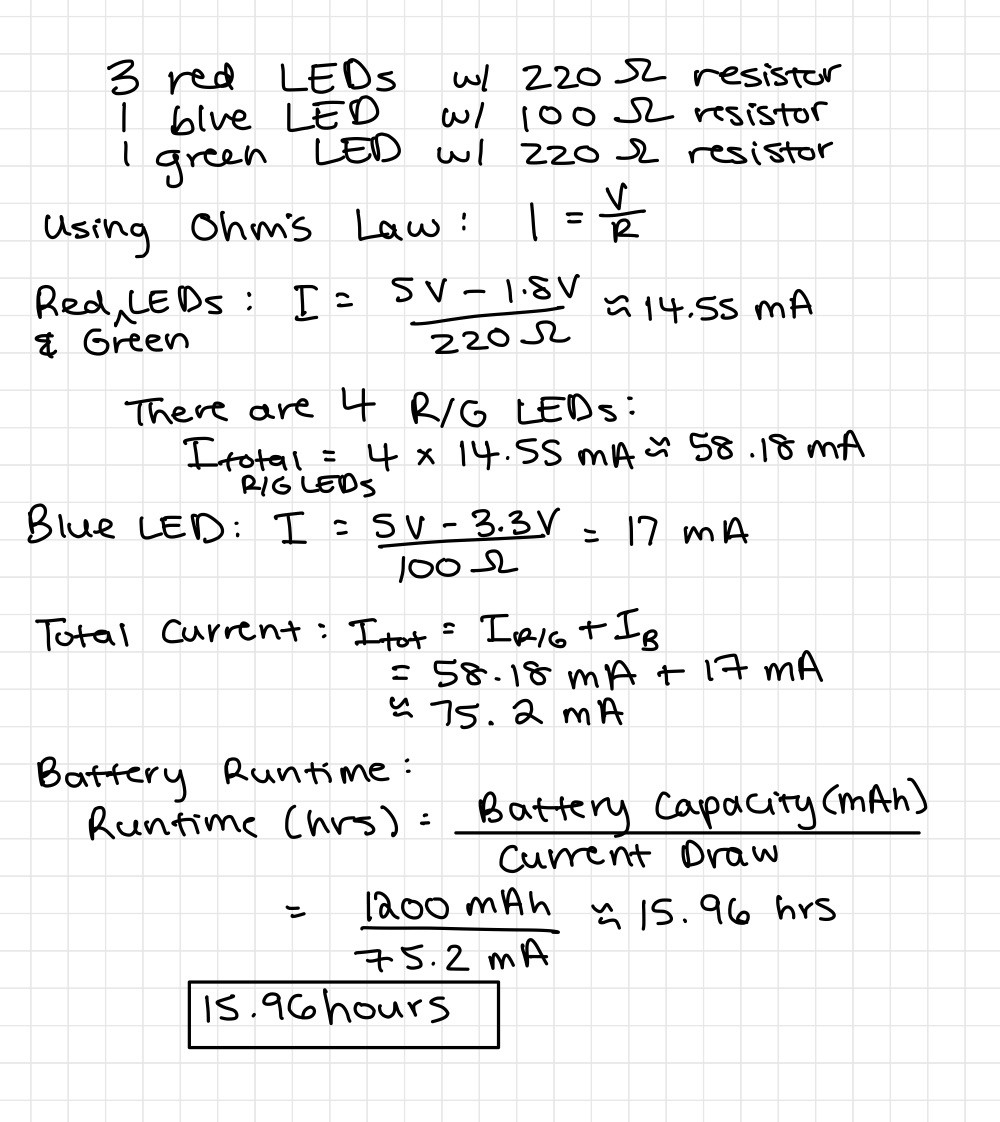
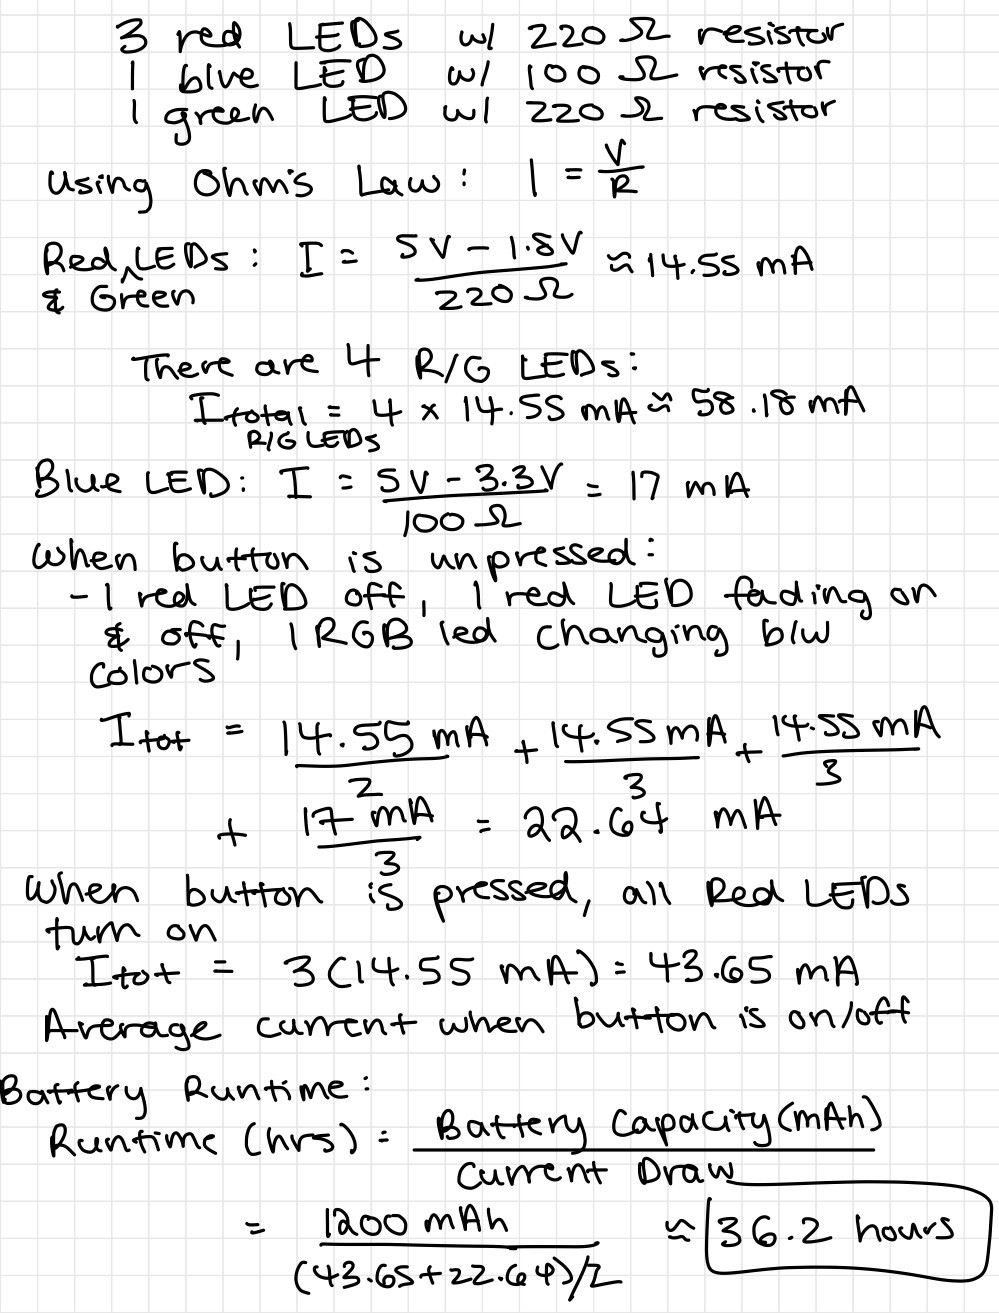
final submit

Changed region(s): [[0.0, 0.0, 1.0, 0.9982]]

diff --git a/hcde439/a2.html b/hcde439/a2.html
@@ -90,7 +90,7 @@
       <h2>Fig 5: Question 2 Calculations</h2>
       <img src="fadeq2.jpg"/>
       <p> Given my schematic, circuit, and firmware, assuming the only thing that draws current is my LEDs, my circuit would run for approximately
-         16 hours if powered by a 1200 mAh battery.
+         36.2 hours if powered by a 1200 mAh battery, assuming that the button is pressed for half the time.
       </p>    
     </div>
   </body>
